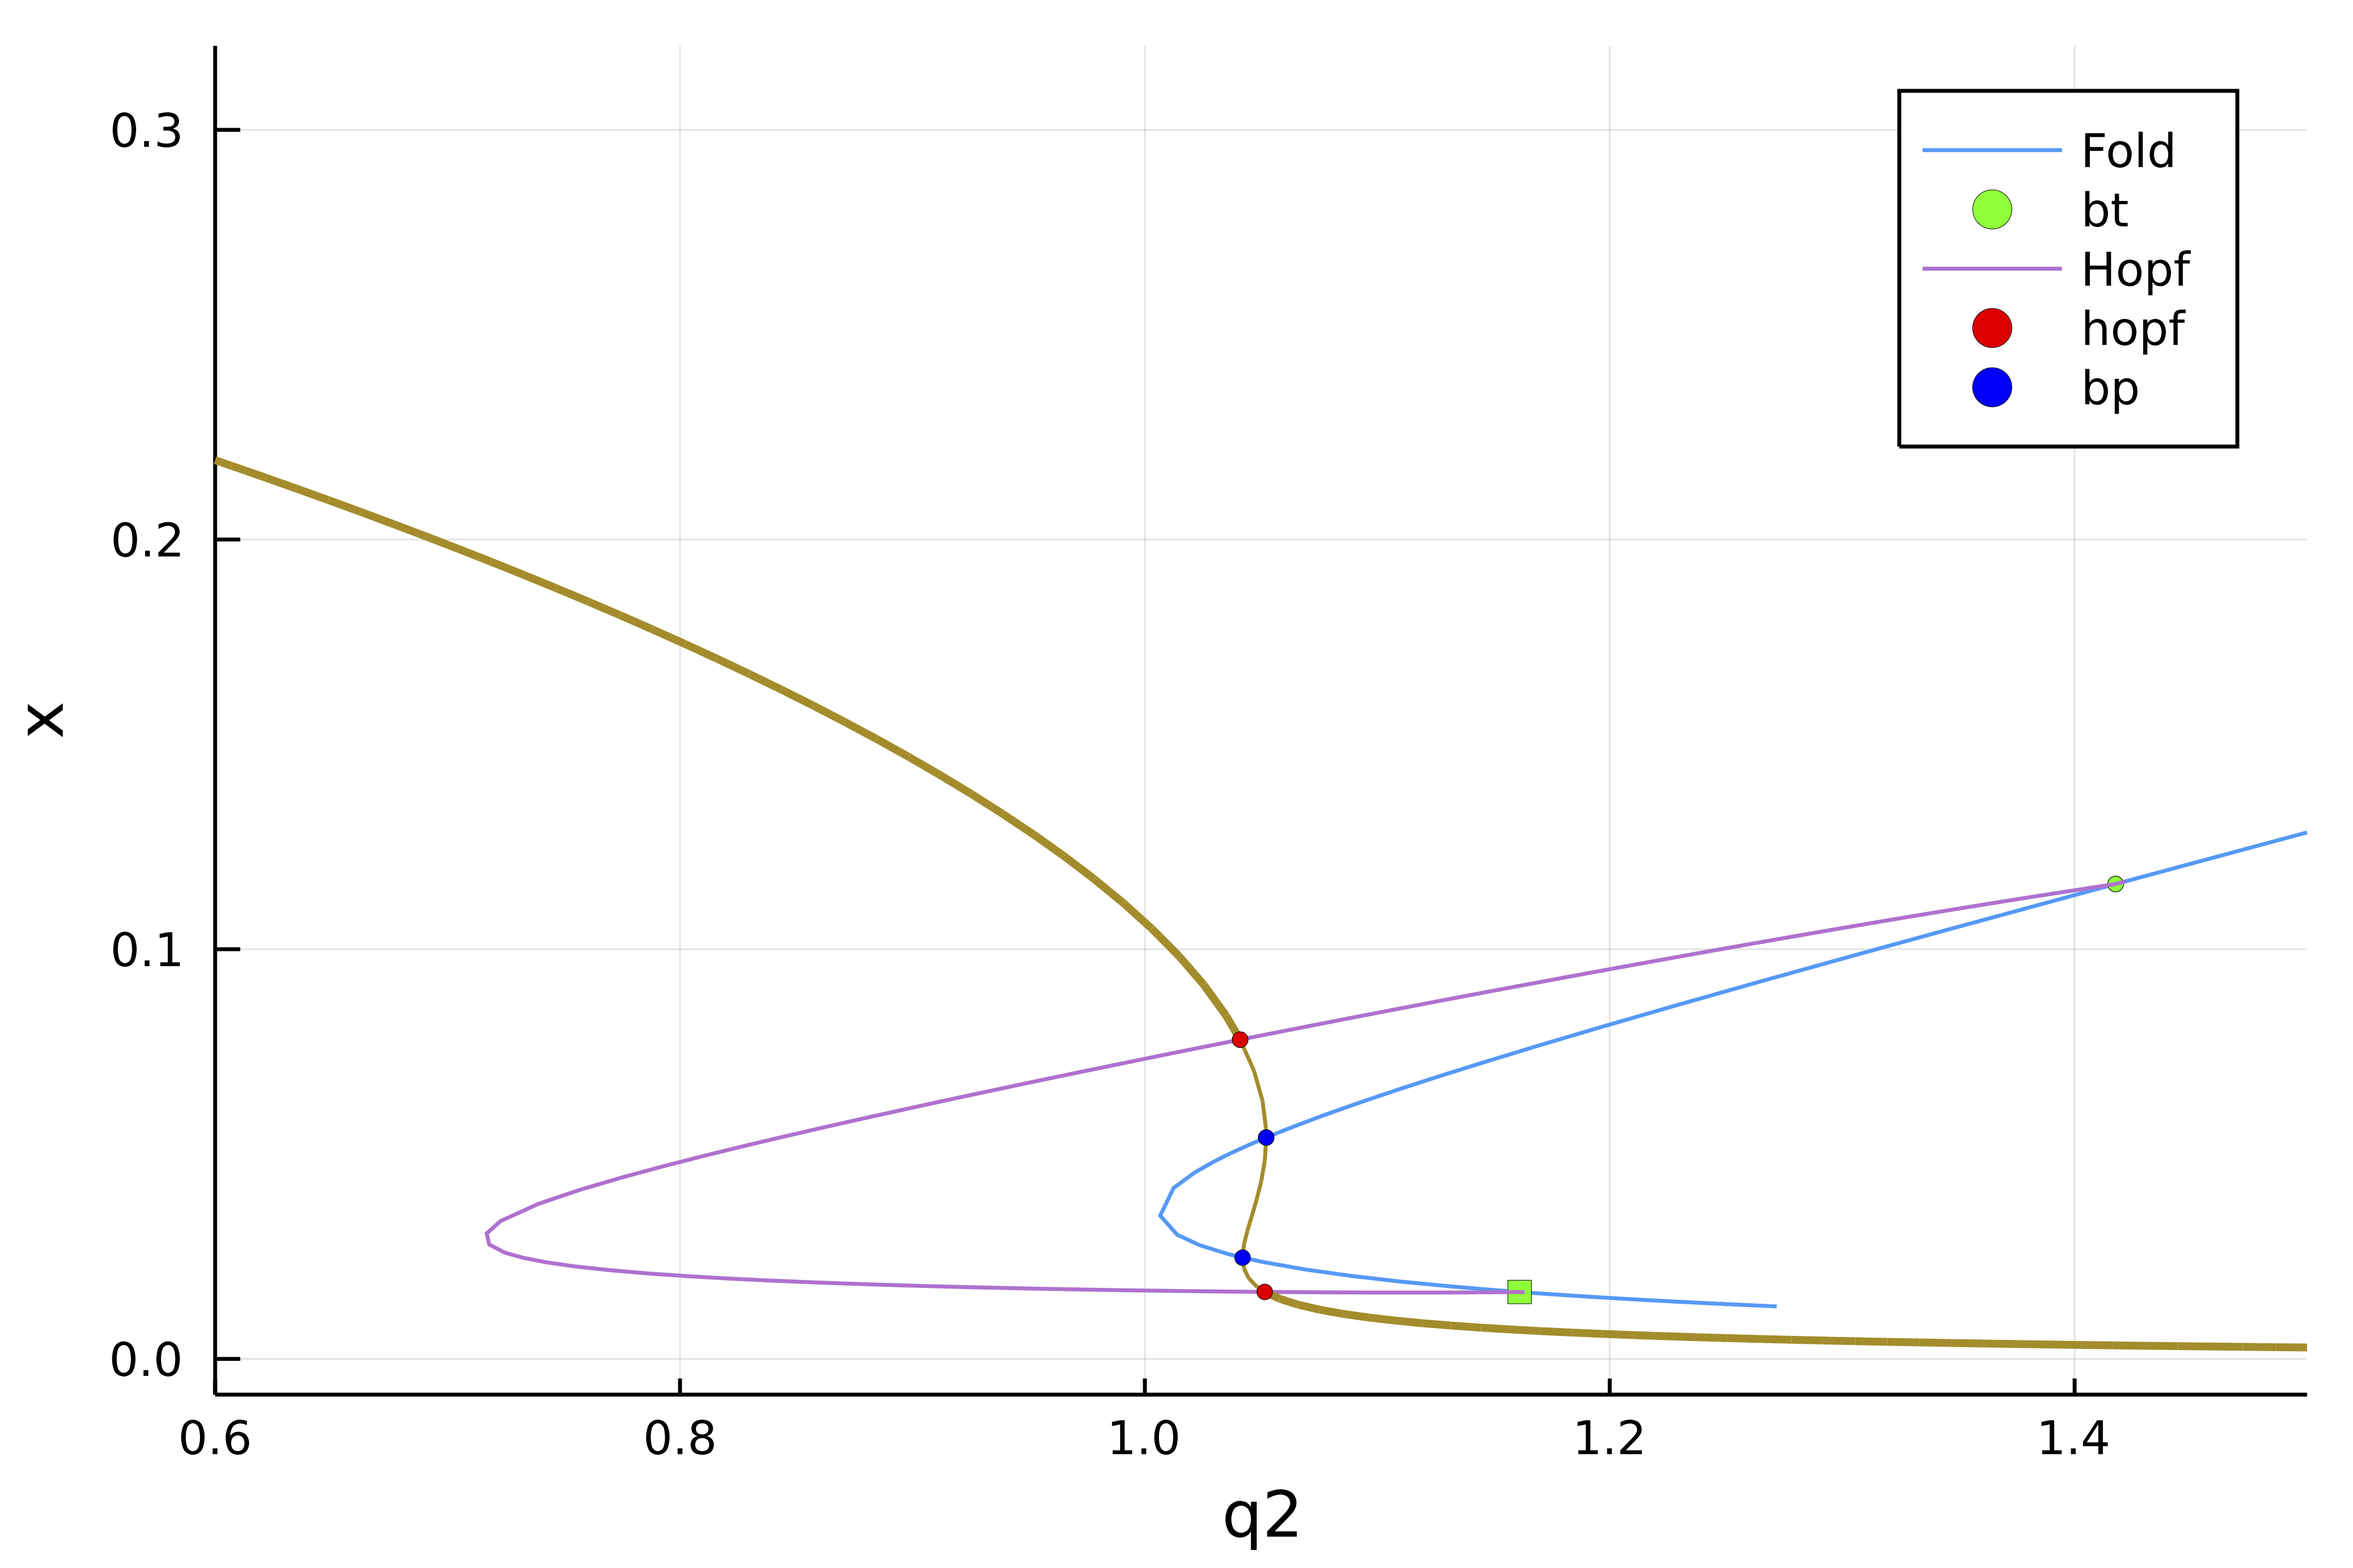
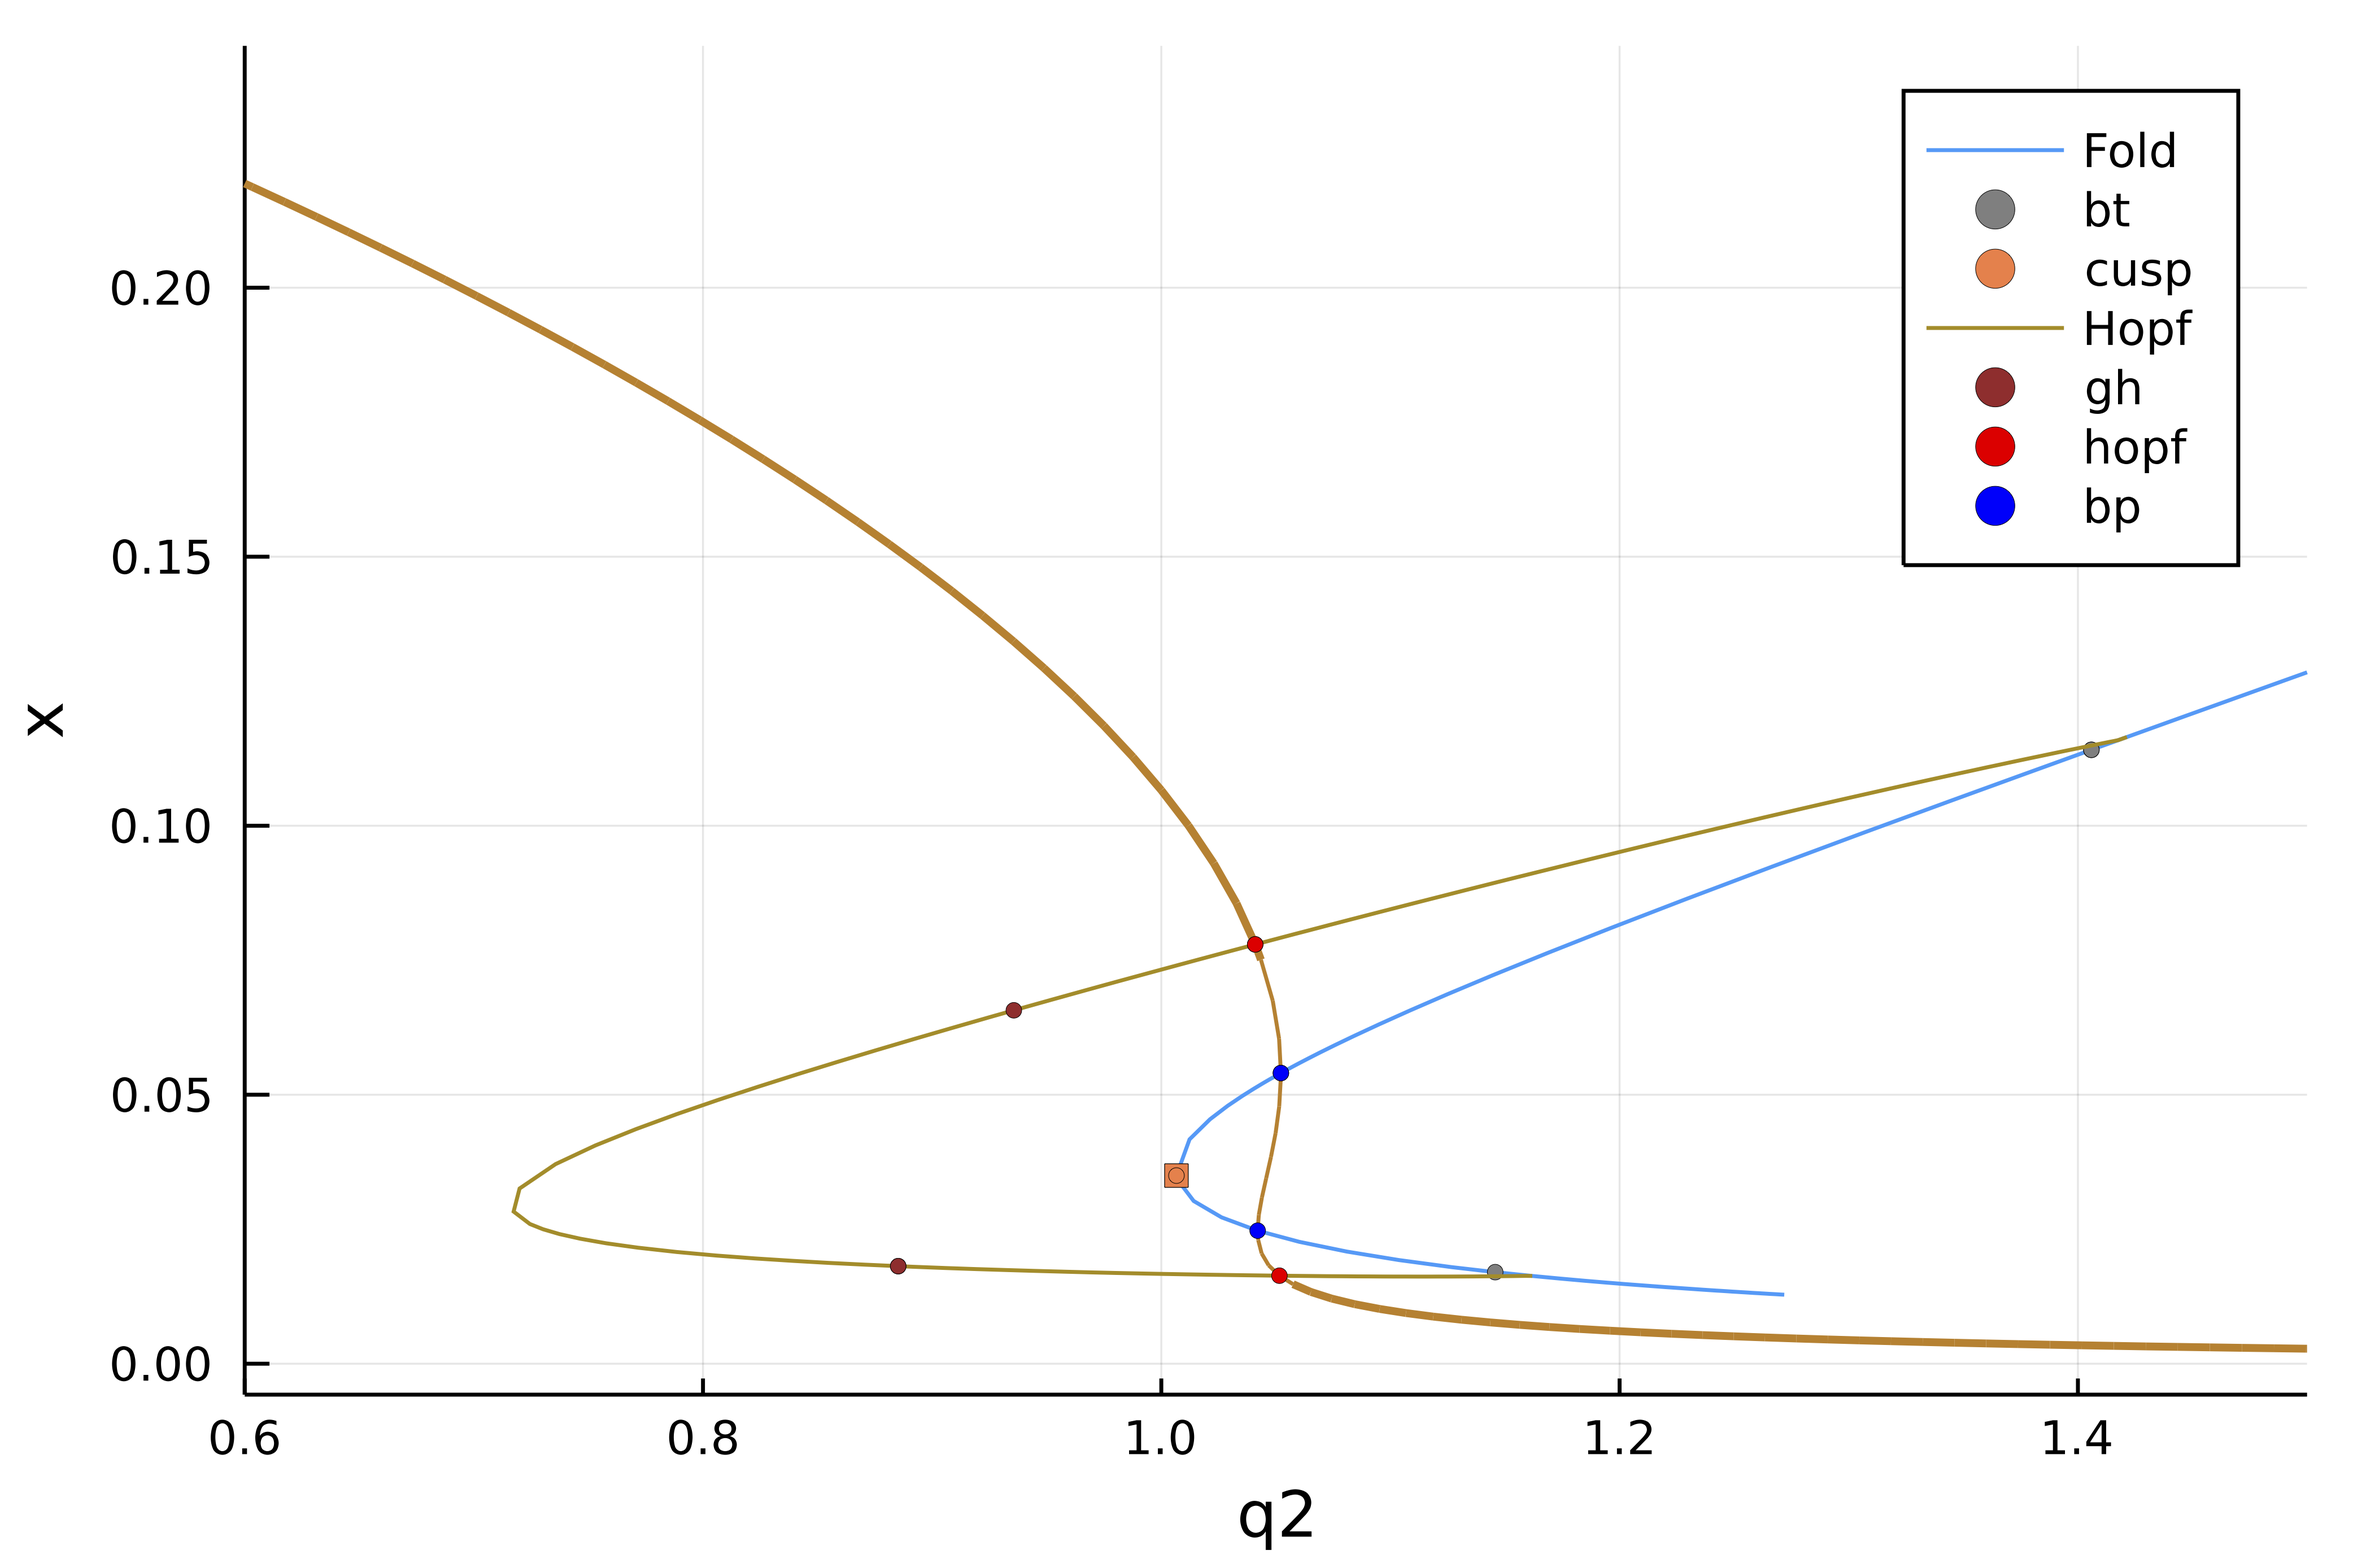
add applytoY keyword to plot recipe

diff --git a/docs/src/plotting.md b/docs/src/plotting.md
@@ -1,21 +1,21 @@
-# Plotting 
+# Plotting
 
 ## Plotting branches
 
-Plotting is provided by calling `Plots.jl`. It means that to plot a branch `br`, you just need to call 
+Plotting is provided by calling `Plots.jl`. It means that to plot a branch `br`, you just need to call
 
 ```
 plot(br)
 ```
 
-where `br` is a branch computed after a call to `br, = continuation(...)`. You can use the keywords provided by `Plots.jl` and the different backends. You can thus call 
+where `br` is a branch computed after a call to `br, = continuation(...)`. You can use the keywords provided by `Plots.jl` and the different backends. You can thus call
 
 ```
 scatter(br)
 plot!(br, label = "continuous line")
 ```
 
-The available arguments specific to our plotting methods are 
+The available arguments specific to our plotting methods are
 
 - `plotfold = true`: plot the fold points with black dots
 - `putbifptlegend = true`: display the legend corresponding to the bifurcation points
@@ -25,14 +25,15 @@ The available arguments specific to our plotting methods are
 - `vars = nothing`: see below
 - `linewidthstable`: set the linewidth for the stable part of the branch
 - `linewidthunstable`: set the linewidth for the unstable part of the branch
+- `applytoY = identity` apply transformation `applytoY` to y-axis
 
-If you have severals branches `br1, br2`, you can plot them in the same figure by doing 
+If you have severals branches `br1, br2`, you can plot them in the same figure by doing
 
 ```
 plot(br1, br2)
 ```
 
-in place of 
+in place of
 
 ```
 plot(br1)
@@ -63,7 +64,7 @@ You can define your own plotting functions using the internal fields of `br` whi
 plot(br.branch.param, br.branch.x)
 ```
 
-You can also plot the spectrum at a specific continuation `step::Int` by calling 
+You can also plot the spectrum at a specific continuation `step::Int` by calling
 
 ```
 # get the eigenvalues
@@ -75,7 +76,7 @@ scatter(real.(eigvals), imag.(eigvals))
 
 ## Plotting bifurcation diagrams
 
-To do this, you just need to call 
+To do this, you just need to call
 
 ```
 plot(diagram)

diff --git a/docs/src/index.md b/docs/src/index.md
@@ -103,5 +103,4 @@ We make the same requirements than `KrylovKit.jl`. Hence, we refer to its [docs]
 - `Base.copyto!(dest, in)` this is required to reduce the allocations by avoiding too many copies
 
 ## Citations
-- Grant, Paul K., et al. **Interpretation of morphogen gradients by a synthetic bistable circuit.** Nature communications 11.1 (2020)
-- Quentin Cormier. **Long time behavior of a mean-field model of interacting spiking neurons. Probability** Université Cote d'Azur, 2021
+See [here](https://scholar.google.fr/scholar?hl=fr&as_sdt=2005&cites=159498619004863176%2C8662907770106865595&scipsc=&as_ylo=&as_yhi=)
